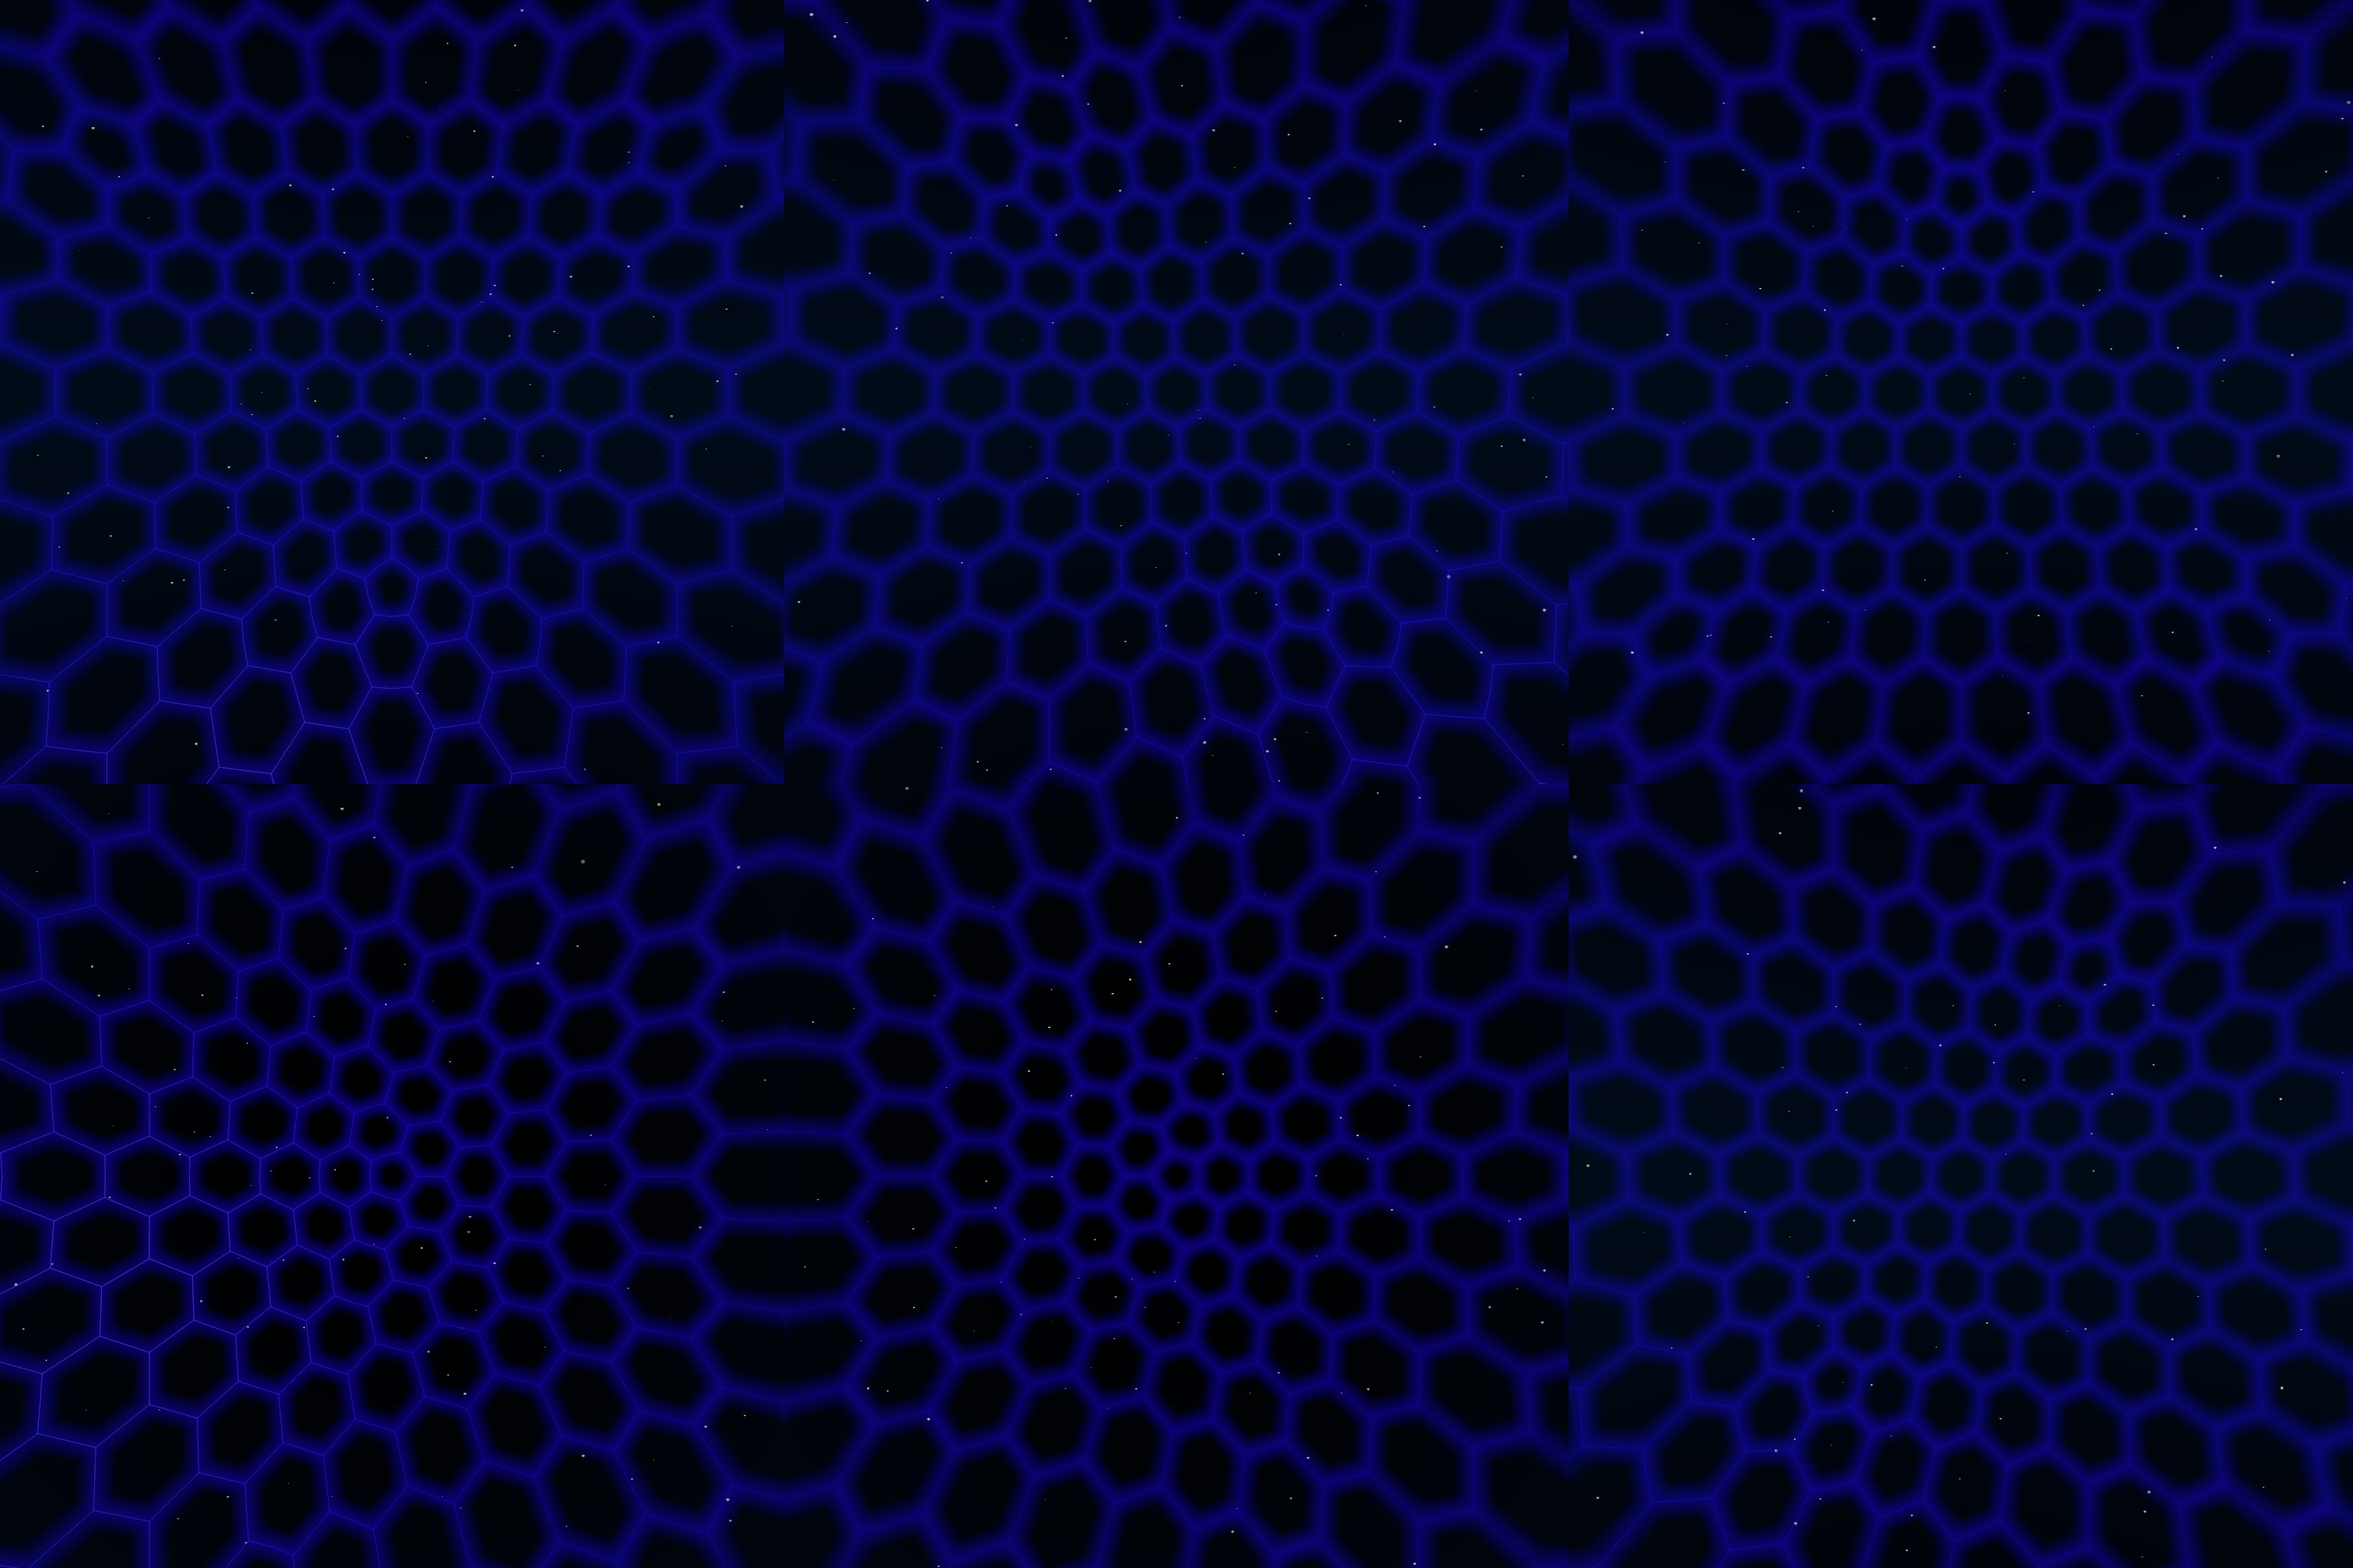
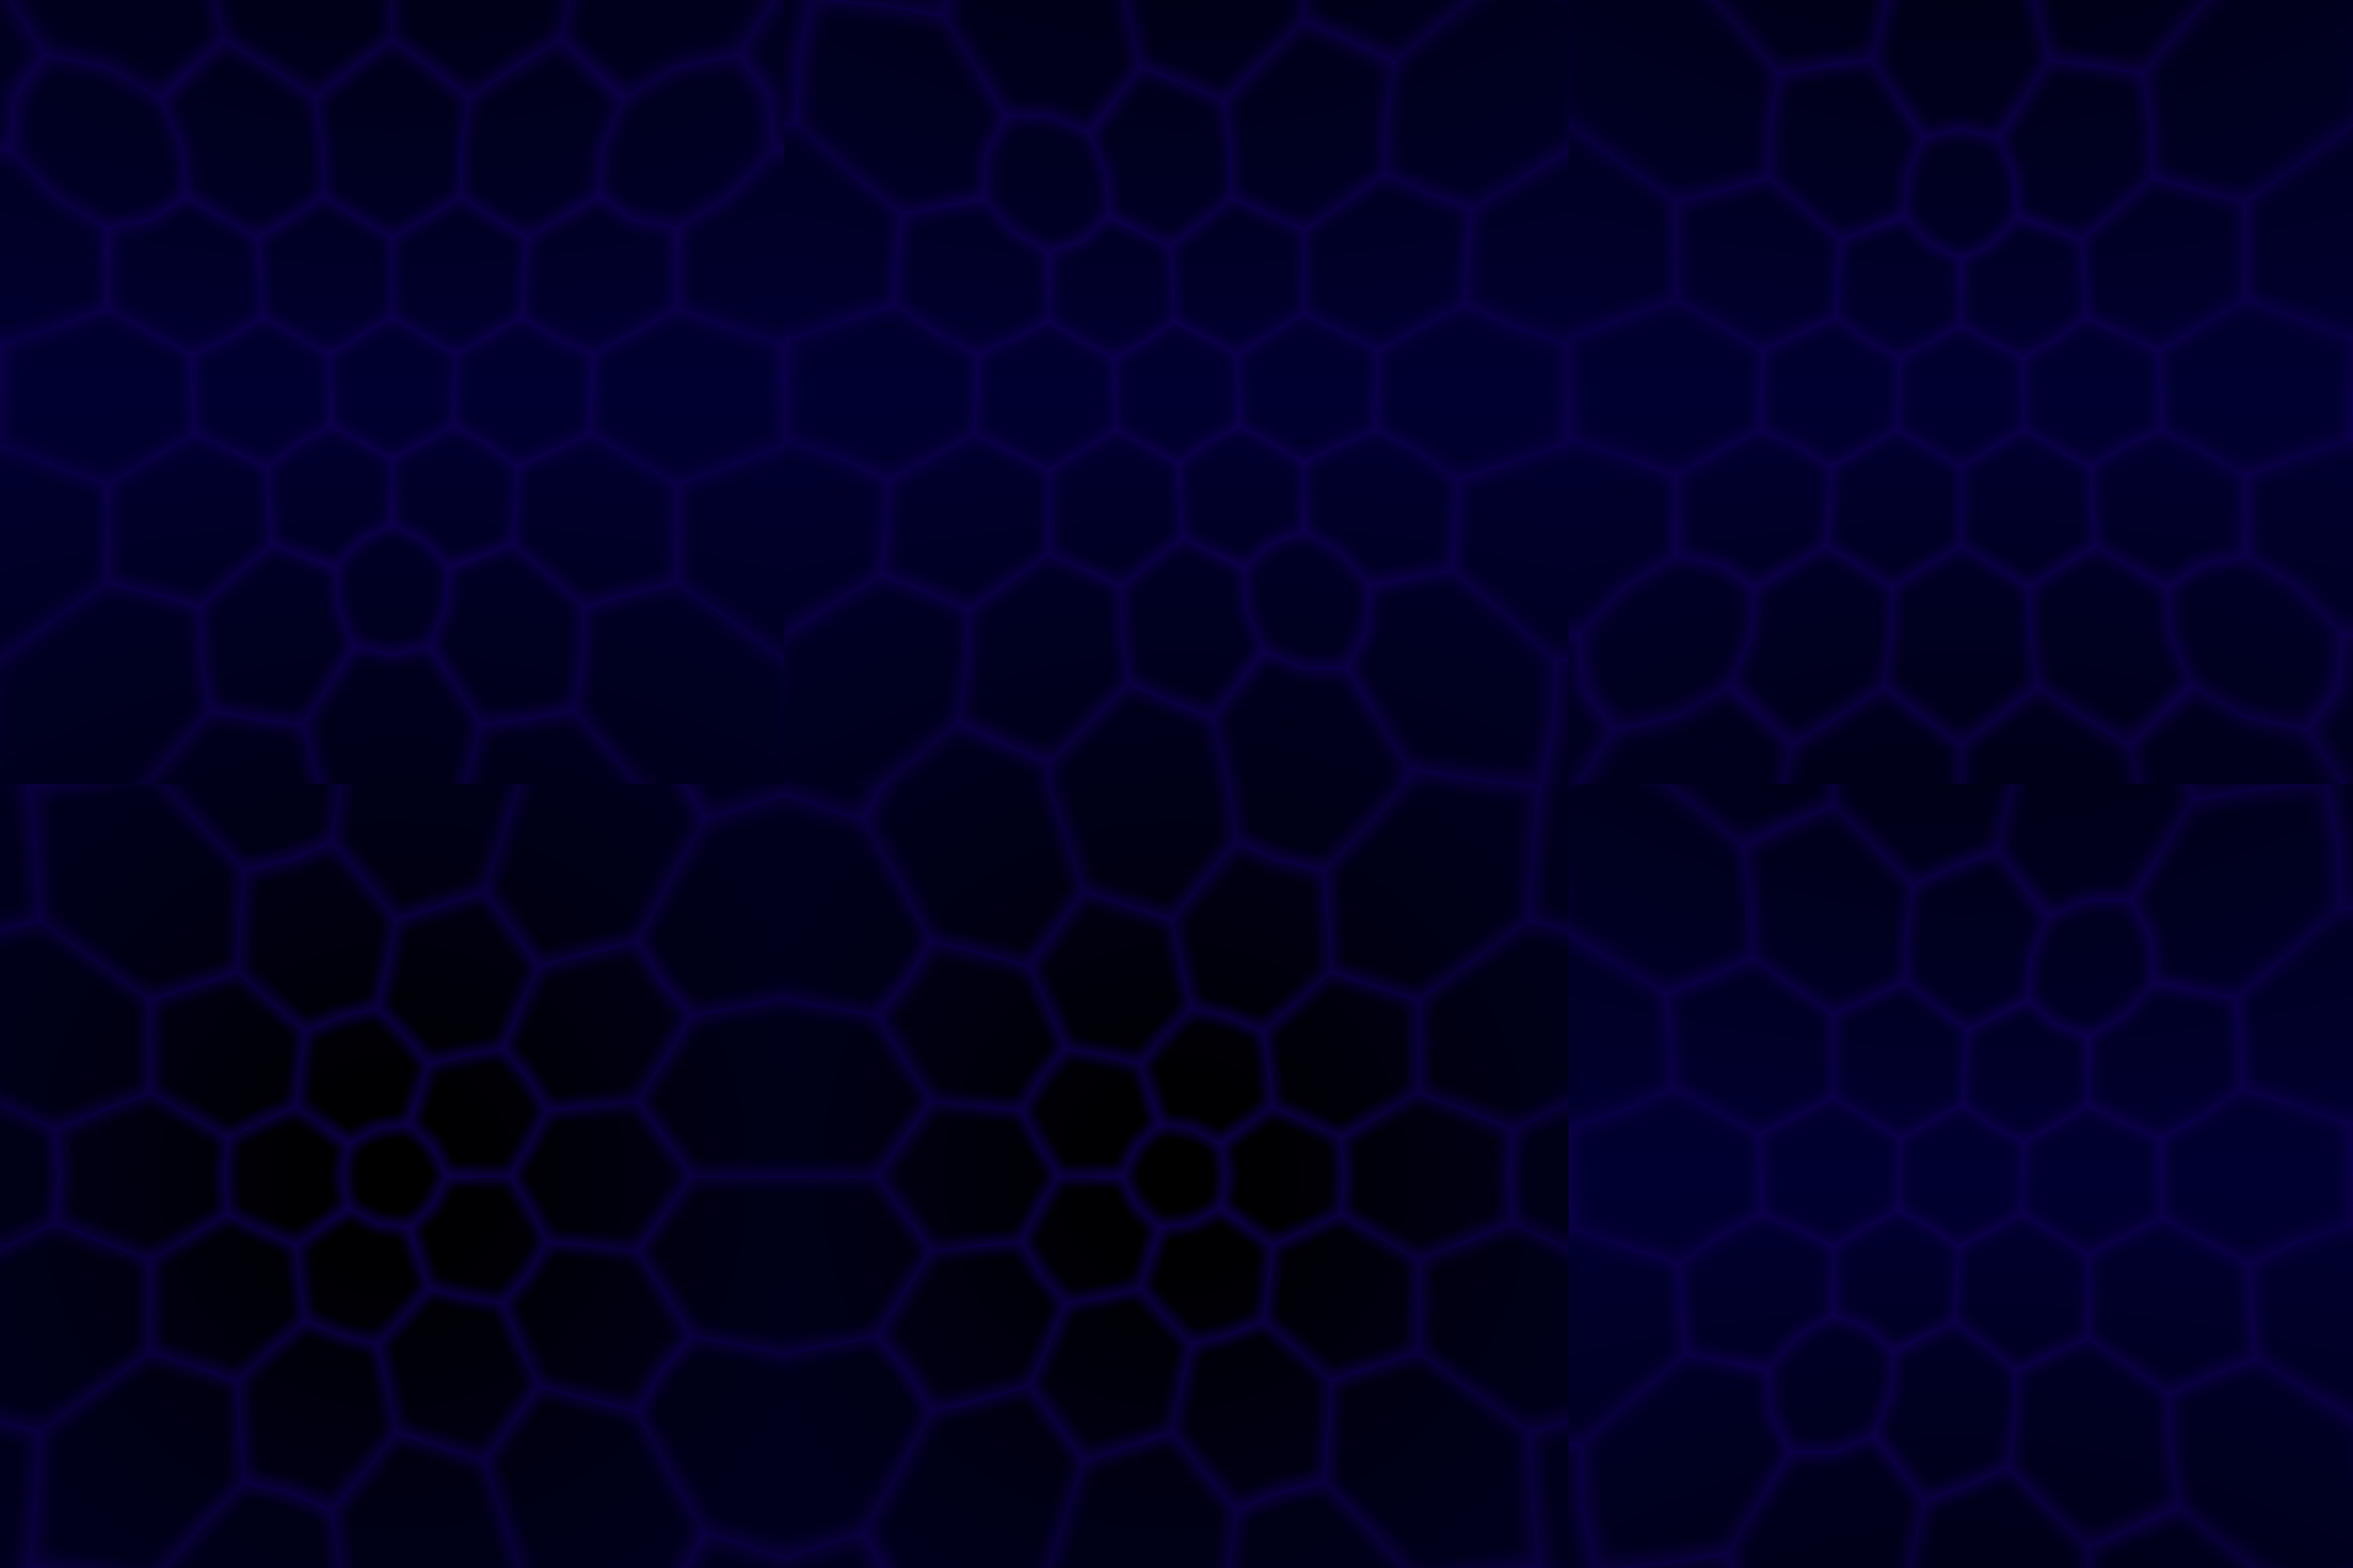
- Added GUI enable/disable flag - Changed skyboxes (darker)

diff --git a/Sound Bites/src/main/SoundBites.java b/Sound Bites/src/main/SoundBites.java
@@ -67,14 +67,16 @@ import shaper.Shaper_Sphere;
  * @version 2.3.2 - 05.09.2013: Added skyboxes and the cylinder shaper
  * @version 2.3.3 - 09.09.2013: Added split mode
  * @version 2.3.4 - 13.09.2013: Moved skybox into JAR, renamed project to SoundBites
+ * @version 2.3.5 - 13.09.2013: Added complete removal of GUI
  * 
  */
 public class SoundBites extends PApplet
 {
-    public static final String VERSION = "2.3.4";
+    public static final String VERSION = "2.3.5";
     
     // permanent GUI controls
     private ControlP5     gui;
+    private boolean       guiEnabled;
     private Textlabel     lblFilename;
     private Button        btnRenderMode;
     private Toggle        btnPause, btnSplit;
@@ -120,7 +122,8 @@ public class SoundBites extends PApplet
         frameRate(60);
 
         gui = new ControlP5(this);
-
+        guiEnabled = true;
+        
         objRotX = 30;
         objRotY = 0;
         cameraPos = new PVector(0, 0, 700);
@@ -349,6 +352,8 @@ public class SoundBites extends PApplet
         lblFilename = gui.addTextlabel("filename", "Filename: ---")
                 .setPosition(guiSpacing, height - guiSizeY - guiSpacing)
                 .setSize(width - 20, 20);
+        
+        gui.setAutoDraw(false);
     }
 
     @Override
@@ -423,6 +428,11 @@ public class SoundBites extends PApplet
         {
             updateRealtimeSpectrum();
         }
+        
+        if ( guiEnabled )
+        {
+            gui.draw();
+        }
     }
 
     
@@ -481,6 +491,16 @@ public class SoundBites extends PApplet
         }
     }
 
+    @Override
+    public void keyPressed()
+    {
+        if ( key == 'g' )
+        {
+            guiEnabled = !guiEnabled;
+        }
+    }
+
+    
     public void toggleRenderMode()
     {
         String txtMode;
